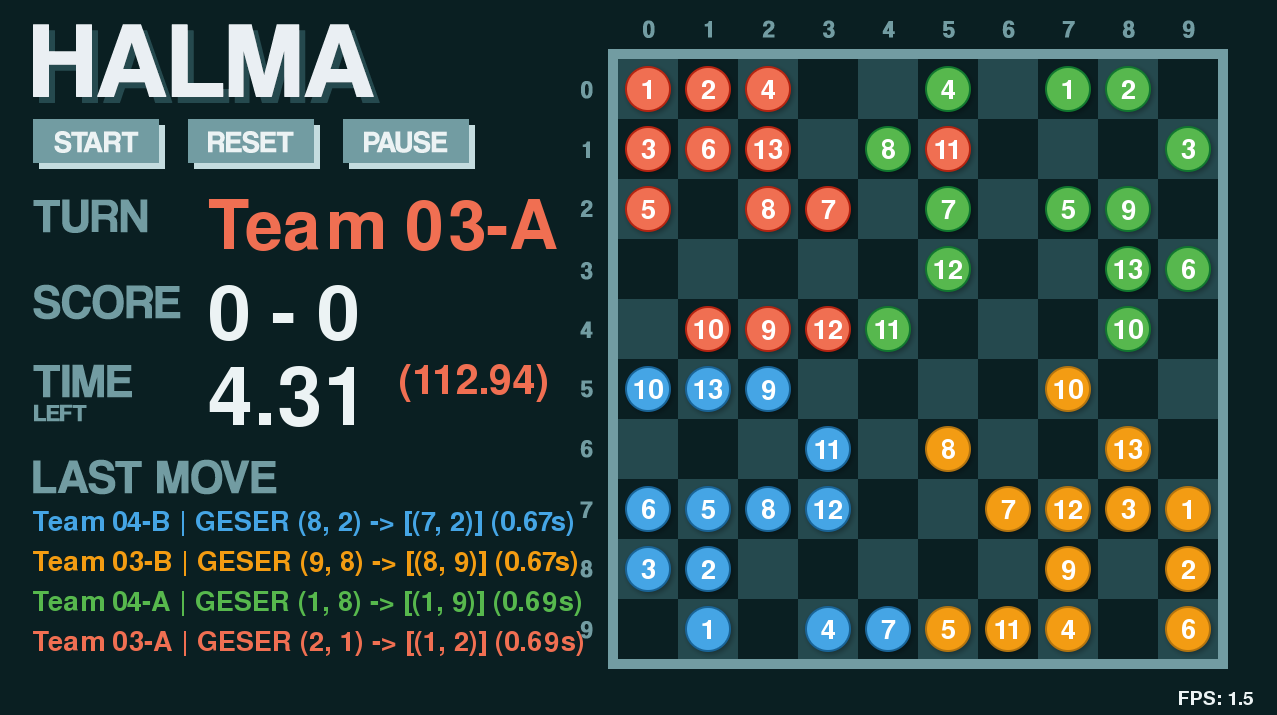
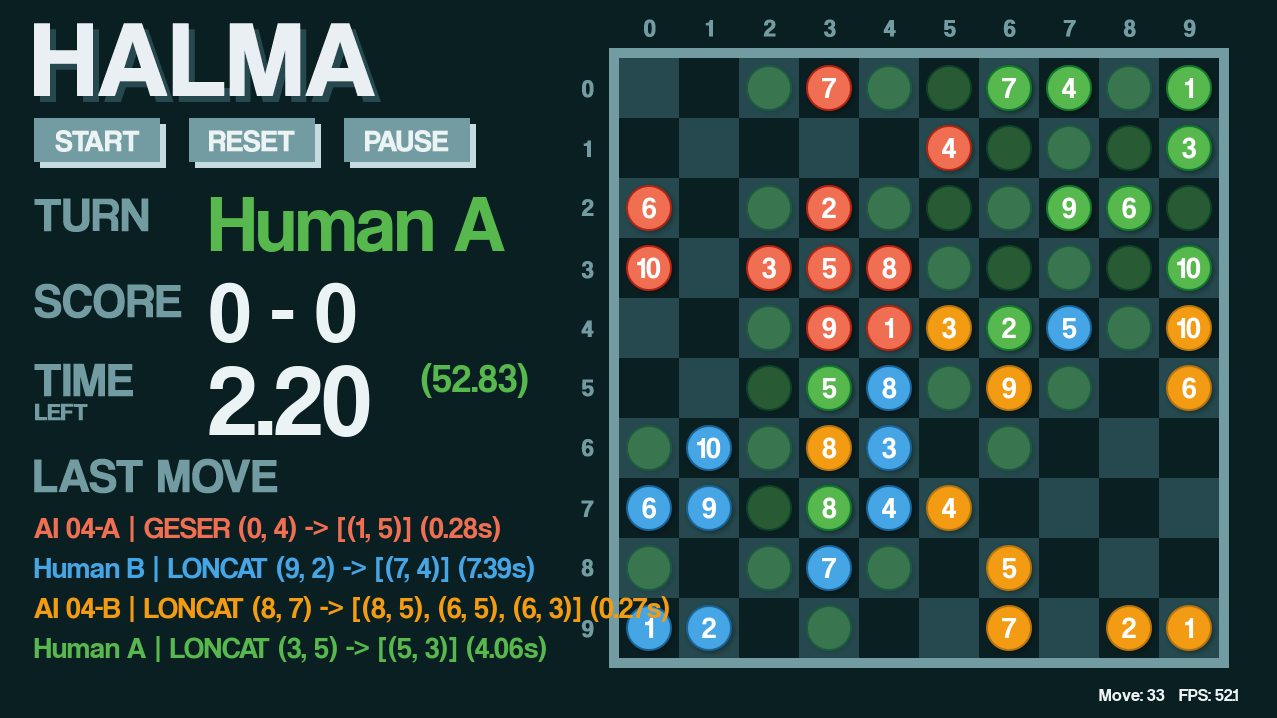
Update Readme and screenshot

diff --git a/README.md b/README.md
@@ -15,16 +15,16 @@ Font: Coolvetica (https://www.dafont.com/coolvetica.font)
 ## Feature
 - Game configuration screen with board piece animation
 - 8x8 and 10x10 board size (8x8 currently not supported by game model)
-- Beautiful Light Mode and Dark Mode 
-- AI vs AI team picker with customizable color
+- Beautiful Light Mode and Dark Mode
+- AI vs AI or human team picker with customizable color
 - Informative team name, move history, and move timer
 
 ## Latest Changes
+- Added human support with mouse click command
 - Added 4-Player support (Team 2 vs 2)
 - Multiple rounds
 
 ## To be developed
-- Human Player (Human vs AI) or even Human vs Human?
 - Debug/Strategy mode built for AI development
 - Multiprocessing/Multithreading GUI element and AI computation to be parallel (continuous timer)
 - PyPI package
